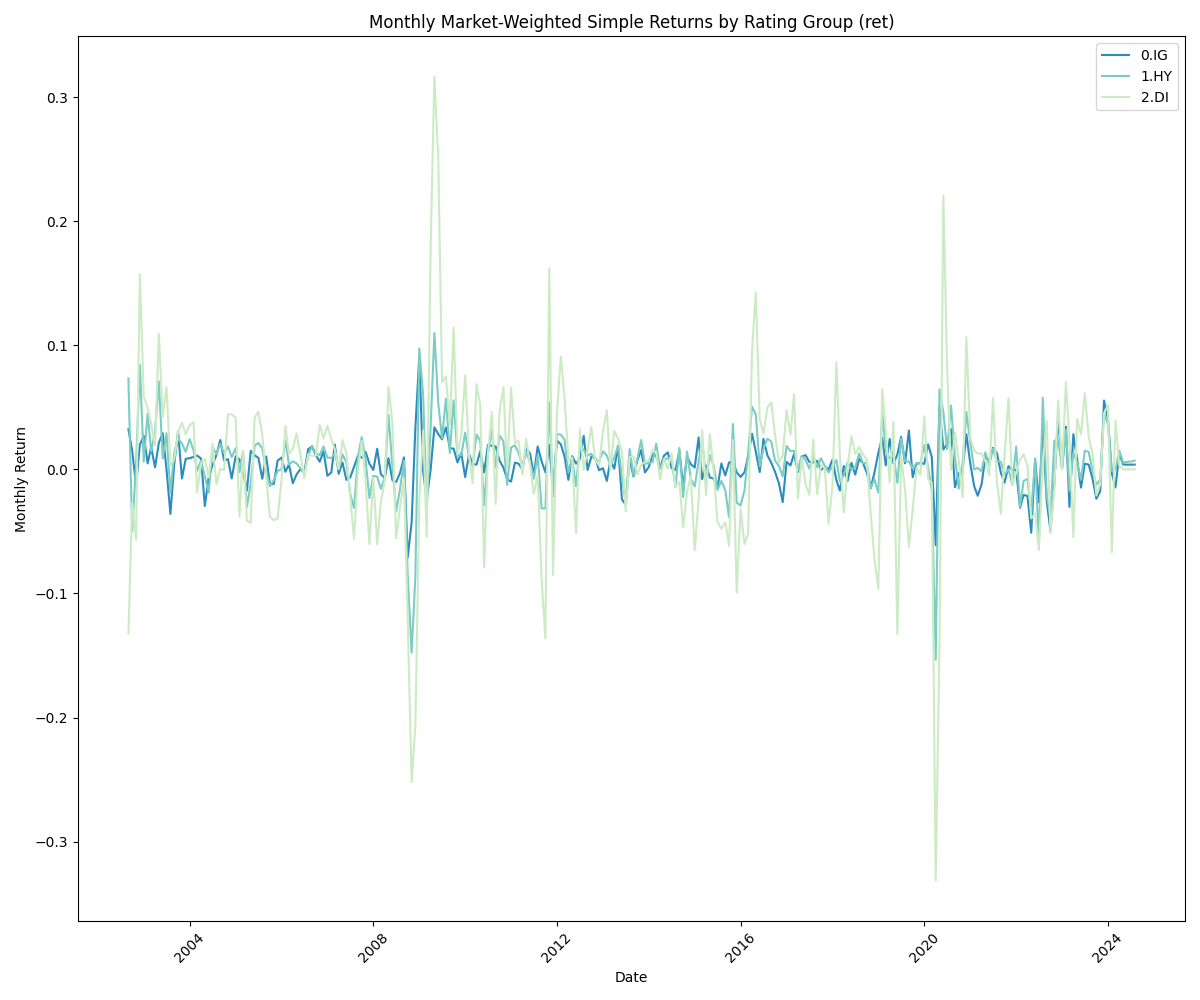
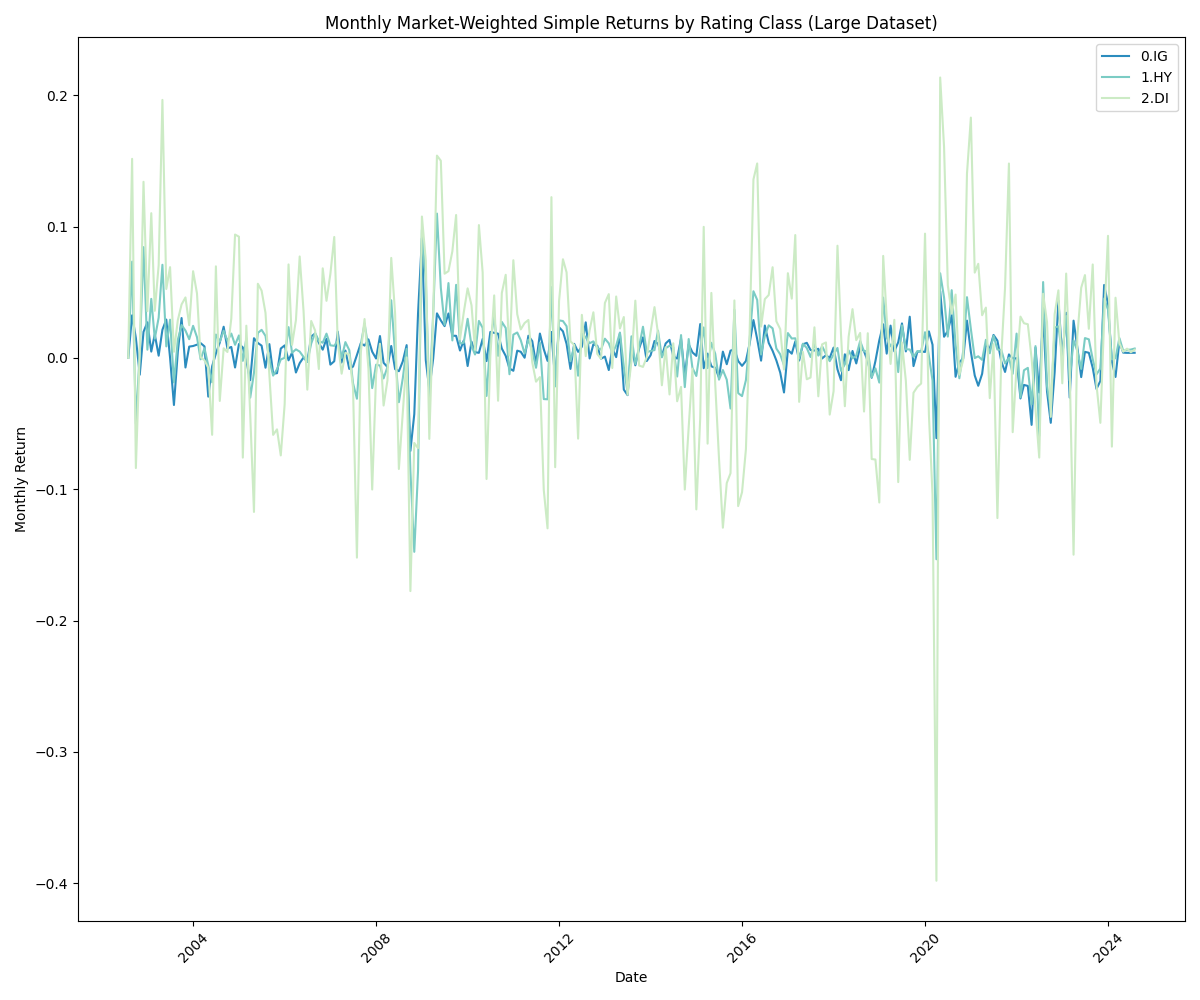
added some past data and updated cum_returns

diff --git a/py_code/descriptive_statistics.py b/py_code/descriptive_statistics.py
@@ -149,90 +149,122 @@ HY_stats.to_csv("data/other/HY_summary_statistics.csv")
 DI_stats.to_csv("data/other/DI_summary_statistics.csv")
 
 # =================================================================================================
-#       Market-weighted cumulative return for each rating group using the small dataset and ret.exc        
+#       Market-weighted cumulative return for each rating group using the small dataset and ret        
 # =================================================================================================                                               
 
-# # Identify the unique dates in the dataset (assumed monthly frequency)
-# dates = sorted(bond_data['eom'].unique())
+# 1. Compute Monthly Market-Weighted Returns Using ret
+# Get sorted unique month-end dates
+dates = sorted(bond_data['eom'].unique())
+date_series = []  # Store the dates for which we compute returns
 
-# # Define the groups we want to analyze:
-# groups = ['0.IG', '1.HY']
-# # And we want to show cumulative returns for distressed bonds separately as well.
-# # For DI, we use only the bonds flagged as distressed.
-# # We'll calculate three series: IG, HY (all HY bonds) and DI (distressed subset).
+# Define the groups for which we compute returns
+groups = ['0.IG', '1.HY']  # Distressed bonds (DI) will be computed separately.
 
-# # Initialize dictionaries to store monthly market-weighted returns for each group
-# group_returns = {grp: [] for grp in groups}
-# di_returns = []  # For distressed bonds
-# date_series = []
+# Initialize dictionaries/lists to store returns
+group_returns = {grp: [] for grp in groups}
+di_returns = []  # For distressed bonds
 
-# # Loop over each month (each date)
-# for dt in dates:
-#     date_series.append(dt)
-#     current_period = bond_data[bond_data['eom'] == dt]
+# Loop over each month (each date)
+for dt in dates:
+    date_series.append(dt)
+    current_period = bond_data[bond_data['eom'] == dt]
     
-#     # For each group (IG and HY), compute the market-weighted return.
-#     for grp in groups:
-#         group_data = current_period[current_period['rating_class'] == grp]
-#         total_mv = group_data['market_value'].sum()
+    # For each group (IG and HY), compute the market-weighted return.
+    for grp in groups:
+        group_data = current_period[current_period['rating_class'] == grp]
+        total_mv = group_data['market_value_past'].sum()
         
-#         if len(group_data) > 0 and total_mv > 0:
-#             weights = group_data['market_value'] / total_mv
-#             weighted_return = (weights * group_data['ret_exc']).sum()
-#         else:
-#             weighted_return = 0
+        if len(group_data) > 0 and total_mv > 0:
+            weights = group_data['market_value_past'] / total_mv
+            weighted_return = (weights * group_data['ret']).sum()
+        else:
+            weighted_return = 0
         
-#         group_returns[grp].append(weighted_return)
+        group_returns[grp].append(weighted_return)
     
-#     # For distressed bonds: subset of HY where is_distressed == True.
-#     distressed_data = current_period[current_period['distressed_rating'] == True]
-#     total_mv_di = distressed_data['market_value'].sum()
-#     if len(distressed_data) > 0 and total_mv_di > 0:
-#         weights_di = distressed_data['market_value'] / total_mv_di
-#         weighted_return_di = (weights_di * distressed_data['ret_exc']).sum()
-#     else:
-#         weighted_return_di = 0
-#     di_returns.append(weighted_return_di)
+    # For distressed bonds: subset of HY where is_distressed == True.
+    distressed_data = current_period[current_period['distressed_spread_past'] == True]
+    total_mv_di = distressed_data['market_value_past'].sum()
+    if len(distressed_data) > 0 and total_mv_di > 0:
+        weights_di = distressed_data['market_value_past'] / total_mv_di
+        weighted_return_di = (weights_di * distressed_data['ret']).sum()
+    else:
+        weighted_return_di = 0
+    di_returns.append(weighted_return_di)
 
-# # Convert the dictionaries into DataFrames for further analysis.
-# # Build a DataFrame for monthly returns using the computed lists.
-# returns_df = pd.DataFrame(group_returns, index=date_series)
-# returns_df['2.DI'] = di_returns
-# returns_df.index.name = 'date'
-# returns_df.reset_index(inplace=True)
-# returns_df.set_index('date', inplace=True)
 
-# # Compute cumulative returns: (1 + monthly_return).cumprod().
-# cumulative_df = (1 + returns_df).cumprod()
-# # Multiply by 100 if you wish to start the index at 100.
-# cumulative_df = 100 * cumulative_df
+# 2. Create DataFrames for Returns
+# Create a DataFrame for monthly returns using the computed lists.
+returns_df = pd.DataFrame(group_returns, index=date_series)  
+returns_df['2.DI'] = di_returns 
+returns_df.index.name = 'date'
 
-# # Combine Monthly Returns and Cumulative Returns in One DataFrame
-# monthly_df = returns_df.reset_index()
-# cum_df = cumulative_df.reset_index()
-# cum_df = cum_df.rename(columns={'0.IG': 'IG_cum', '1.HY': 'HY_cum', '2.DI': 'DI_cum'})
+# Add a row on 2002-07-31 with values of 0 for all columns
+first_row = pd.DataFrame({'0.IG': [0], '1.HY': [0], '2.DI': [0]}, index=[pd.Timestamp("2002-07-31")])
+returns_df = pd.concat([first_row, returns_df])
+returns_df = returns_df.sort_index()
+returns_df.index = pd.to_datetime(returns_df.index)
 
-# # Merge the two DataFrames on 'date'
-# combined_df = pd.merge(monthly_df, cum_df, on='date')
+# Compute cumulative returns: cumulative product of (1 + monthly_return).
+cumulative_df = (1 + returns_df).cumprod()  
+# Multiply by 100 if you want an index starting at 100.
+cumulative_df = 100 * cumulative_df
+# Create the first observation starting from 100
+first_row = pd.DataFrame({'0.IG': [100], '1.HY': [100], '2.DI': [100]}, index=[pd.Timestamp("2002-07-31")])
+# Concatenate the new row to the existing dataframe
+cumulative_df = pd.concat([first_row, cumulative_df])
+# Sort by date to maintain chronological order
+cumulative_df = cumulative_df.sort_index()
 
-# # Save the Combined DataFrame to CSV
-# output_path = os.path.join(data_folder, "preprocessed", "market_returns_combined.csv")
-# combined_df.to_csv(output_path, index=False)
-# print("Combined monthly and cumulative returns saved to:", output_path)
+# 3. Combine Monthly and Cumulative Returns
+monthly_df = returns_df.reset_index()
+cum_df = cumulative_df.reset_index()
 
-# # Plot the Cumulative Returns
-# plt.figure(figsize=(12, 6))
-# for col in ['IG_cum', 'HY_cum', 'DI_cum']:   #includes distressed bonds
-#     plt.plot(cum_df['date'], cum_df[col], label=col)
-# plt.title("Market-Weighted Cumulative Returns by Rating Group")
-# plt.xlabel("Date")
-# plt.ylabel("Cumulative Return Index")
-# plt.legend()
-# plt.xticks(rotation=45)
-# plt.tight_layout()
-# plt.show()
+# Rename cumulative columns to avoid collision.
+cum_df = cum_df.rename(columns={'0.IG': 'IG_cum', '1.HY': 'HY_cum', '2.DI': 'DI_cum'})
 
-# print("done with small dataset")
+# Merge the two DataFrames on 'date'
+monthly_df = monthly_df.reset_index().rename(columns={"index": "date"})
+cum_df = cum_df.reset_index().rename(columns={"index": "date"})
+combined_df = pd.merge(monthly_df, cum_df, on='date')
+
+# 4. Save Combined DataFrame to CSV
+output_path = os.path.join(data_folder, "preprocessed", "market_returns_combined.csv") 
+combined_df.to_csv(output_path, index=False) 
+print("Combined monthly and cumulative returns saved to:", output_path)
+
+cum_df['date'] = pd.to_datetime(cum_df['date'])
+returns_df.index = pd.to_datetime(returns_df.index)
+
+# 5. Plot Cumulative Returns
+cmap = cm.get_cmap('GnBu', 5).reversed()
+
+plt.figure(figsize=(12, 6))
+for i, col in enumerate(['IG_cum', 'HY_cum', 'DI_cum']):
+    plt.plot(cum_df['date'], cum_df[col], label=col, color=cmap(i+1))
+plt.title("Market-Weighted Cumulative Returns by Bond Class")
+plt.xlabel("Date")
+plt.ylabel("Cumulative Return Index")
+plt.legend()
+plt.xticks(rotation=45)
+plt.tight_layout()
+plt.savefig(os.path.join(figures_folder, "cumulative_returns.png"))
+plt.close()
+
+# 8. Plot Monthly (Simple) Returns
+plt.figure(figsize=(12, 10))
+for i, col in enumerate(['0.IG', '1.HY', '2.DI']):
+    plt.plot(returns_df.index, returns_df[col], label=col, linestyle='-', color=cmap(i+1))
+plt.title("Monthly Market-Weighted Simple Returns by Rating Class")
+plt.xlabel("Date")
+plt.ylabel("Monthly Return")
+plt.legend()
+plt.xticks(rotation=45)
+plt.tight_layout()
+plt.savefig(os.path.join(figures_folder, "monthly_returns.png"))
+plt.close()
+
+print("done with small dataset")
 
 # ======================================================================================     
 #       Market-weighted cumulative return for each rating group using the large dataset        
@@ -269,7 +301,7 @@ for dt in dates:
         group_returns[grp].append(weighted_return)
     
     # For distressed bonds: subset of HY where is_distressed == True.
-    distressed_data = current_period[current_period['distressed_rating'] == True]
+    distressed_data = current_period[current_period['distressed_spread_past'] == True]
     total_mv_di = distressed_data['market_value_past'].sum()
     if len(distressed_data) > 0 and total_mv_di > 0:
         weights_di = distressed_data['market_value_past'] / total_mv_di
@@ -278,19 +310,28 @@ for dt in dates:
         weighted_return_di = 0
     di_returns.append(weighted_return_di)
 
-
 # 2. Create DataFrames for Returns
 # Create a DataFrame for monthly returns using the computed lists.
 returns_df = pd.DataFrame(group_returns, index=date_series)  
 returns_df['2.DI'] = di_returns 
 returns_df.index.name = 'date'
-returns_df.reset_index(inplace=True)
-returns_df.set_index('date', inplace=True)
+returns_df.index = pd.to_datetime(returns_df.index)
+
+# Add a row on 2002-07-31 with values of 0 for all columns
+first_row = pd.DataFrame({'0.IG': [0], '1.HY': [0], '2.DI': [0]}, index=[pd.Timestamp("2002-07-31")])
+returns_df = pd.concat([first_row, returns_df])
+returns_df = returns_df.sort_index()
 
 # Compute cumulative returns: cumulative product of (1 + monthly_return).
 cumulative_df = (1 + returns_df).cumprod()  
 # Multiply by 100 if you want an index starting at 100.
-cumulative_df = 100 * cumulative_df 
+cumulative_df = 100 * cumulative_df
+# Create the first observation starting from 100
+first_row = pd.DataFrame({'0.IG': [100], '1.HY': [100], '2.DI': [100]}, index=[pd.Timestamp("2002-07-31")])
+# Concatenate the new row to the existing dataframe
+cumulative_df = pd.concat([first_row, cumulative_df])
+# Sort by date to maintain chronological order
+cumulative_df = cumulative_df.sort_index()
 
 # 3. Combine Monthly and Cumulative Returns
 monthly_df = returns_df.reset_index()
@@ -300,11 +341,13 @@ cum_df = cumulative_df.reset_index()
 cum_df = cum_df.rename(columns={'0.IG': 'IG_cum', '1.HY': 'HY_cum', '2.DI': 'DI_cum'})
 
 # Merge the two DataFrames on 'date'
-combined_df = pd.merge(monthly_df, cum_df, on='date')
+monthly_df = monthly_df.reset_index().rename(columns={"index": "date"})
+cum_df = cum_df.reset_index().rename(columns={"index": "date"})
+combined_df_large = pd.merge(monthly_df, cum_df, on='date')
 
 # 4. Save Combined DataFrame to CSV
 output_path = os.path.join(data_folder, "preprocessed", "market_returns_combined.csv") 
-combined_df.to_csv(output_path, index=False) 
+combined_df_large.to_csv(output_path, index=False) 
 print("Combined monthly and cumulative returns saved to:", output_path)
 
 cum_df['date'] = pd.to_datetime(cum_df['date'])
@@ -316,7 +359,7 @@ cmap = cm.get_cmap('GnBu', 5).reversed()
 plt.figure(figsize=(12, 6))
 for i, col in enumerate(['IG_cum', 'HY_cum', 'DI_cum']):
     plt.plot(cum_df['date'], cum_df[col], label=col, color=cmap(i+1))
-plt.title("Market-Weighted Cumulative Returns by Rating Group (ret)")
+plt.title("Market-Weighted Cumulative Returns by Bond Class (Large Dataset)")
 plt.xlabel("Date")
 plt.ylabel("Cumulative Return Index")
 plt.legend()
@@ -329,7 +372,7 @@ plt.close()
 plt.figure(figsize=(12, 10))
 for i, col in enumerate(['0.IG', '1.HY', '2.DI']):
     plt.plot(returns_df.index, returns_df[col], label=col, linestyle='-', color=cmap(i+1))
-plt.title("Monthly Market-Weighted Simple Returns by Rating Group (ret)")
+plt.title("Monthly Market-Weighted Simple Returns by Rating Class (Large Dataset)")
 plt.xlabel("Date")
 plt.ylabel("Monthly Return")
 plt.legend()

diff --git a/py_code/dataset.py b/py_code/dataset.py
@@ -127,12 +127,13 @@ bond_data_large["interp_yield"] = bond_data_large.apply(
 )
 bond_data_large["credit_spread"] = bond_data_large['yield'] - bond_data_large['interp_yield']
 
-# Adding rating from last period
-rating_data = wrds_data[['eom', 'cusip', 'rating_num']]
+# Adding rating and price data from last period
+rating_data = wrds_data[['eom', 'cusip', 'rating_num', 'price_eom']]
 rating_data = rating_data.sort_values(by=['cusip', 'eom'])
 rating_data['rating_num_past'] = rating_data.groupby('cusip')['rating_num'].shift(1)
+rating_data['price_eom_past'] = rating_data.groupby('cusip')['price_eom'].shift(1)
 # Merge the rating_data onto bond_data and bond_data_large
-bond_data_large = pd.merge(bond_data_large, rating_data[['cusip', 'eom', 'rating_num_past']], on=['cusip', 'eom'], how='left')
+bond_data_large = pd.merge(bond_data_large, rating_data[['cusip', 'eom', 'rating_num_past', 'price_eom_past']], on=['cusip', 'eom'], how='left')
 
 #Adding credit spread from last period (large dataset)
 # Ensure data is sorted
@@ -150,6 +151,8 @@ bond_data_large["dummy_prior_match"] = (bond_data_large["prior_date_cusip_shift"
 bond_data_large['credit_spread_past'] = bond_data_large['credit_spread'].shift(1)
 # Remove observations where the prior observations was not the same cusip one month before
 bond_data_large.loc[bond_data_large['dummy_prior_match'] == 0, 'credit_spread_past'] = np.nan
+# Drop help columns
+bond_data_large = bond_data_large.drop(columns=['dummy_prior_match', 'prior_date_cusip_shift', 'prior_date_cusip', 'current_date_cusip'])
 
 # Adding market value of last period
 bond_data_large = bond_data_large.sort_values(by=['cusip', 'eom'])
@@ -168,13 +171,13 @@ bond_data_large['rating_num_past'] = bond_data_large['rating_num_past'].fillna(b
 bond_data_large['rating_num_past'] = bond_data_large['rating_num_past'].fillna(bond_data_large['rating_num'])
 
 # Adding definitions of distress
-bond_data_large['distressed_rating'] = bond_data_large['rating_num'] > 17.5
-bond_data_large['distressed_rating_past'] = bond_data_large['rating_num_past'] > 17.5
+bond_data_large['distressed_rating'] = bond_data_large['rating_num'] > 18.5
+bond_data_large['distressed_rating_past'] = bond_data_large['rating_num_past'] > 18.5
 bond_data_large['distressed_spread'] = bond_data_large['credit_spread'] > 0.1
 bond_data_large['distressed_spread_past'] = bond_data_large['credit_spread_past'] > 0.1
 
 # Finalizing the bond_data dataset
-bond_data = bond_data = bond_data_large[bond_data_large['eom'] <= '2021-11-30']
+bond_data = bond_data_large[bond_data_large['eom'] <= '2021-11-30']
 
 # Save the data
 bond_data.to_csv("data/preprocessed/bond_data.csv")
